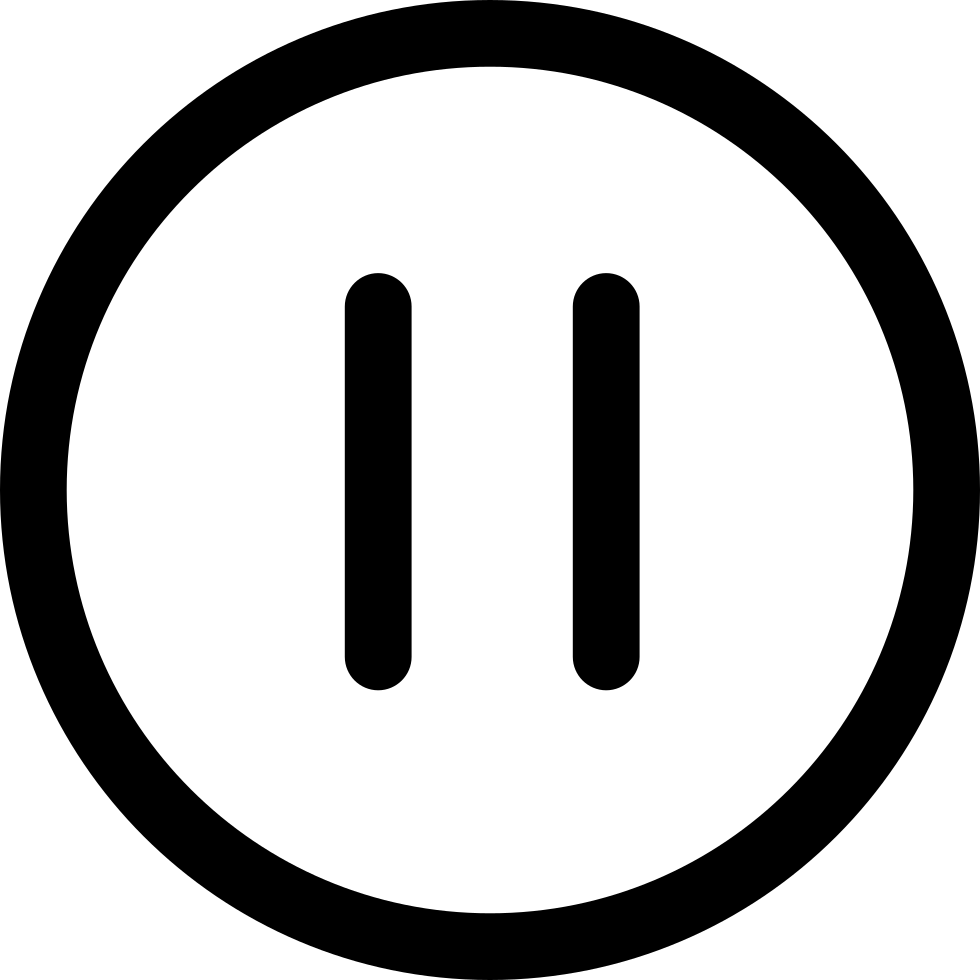
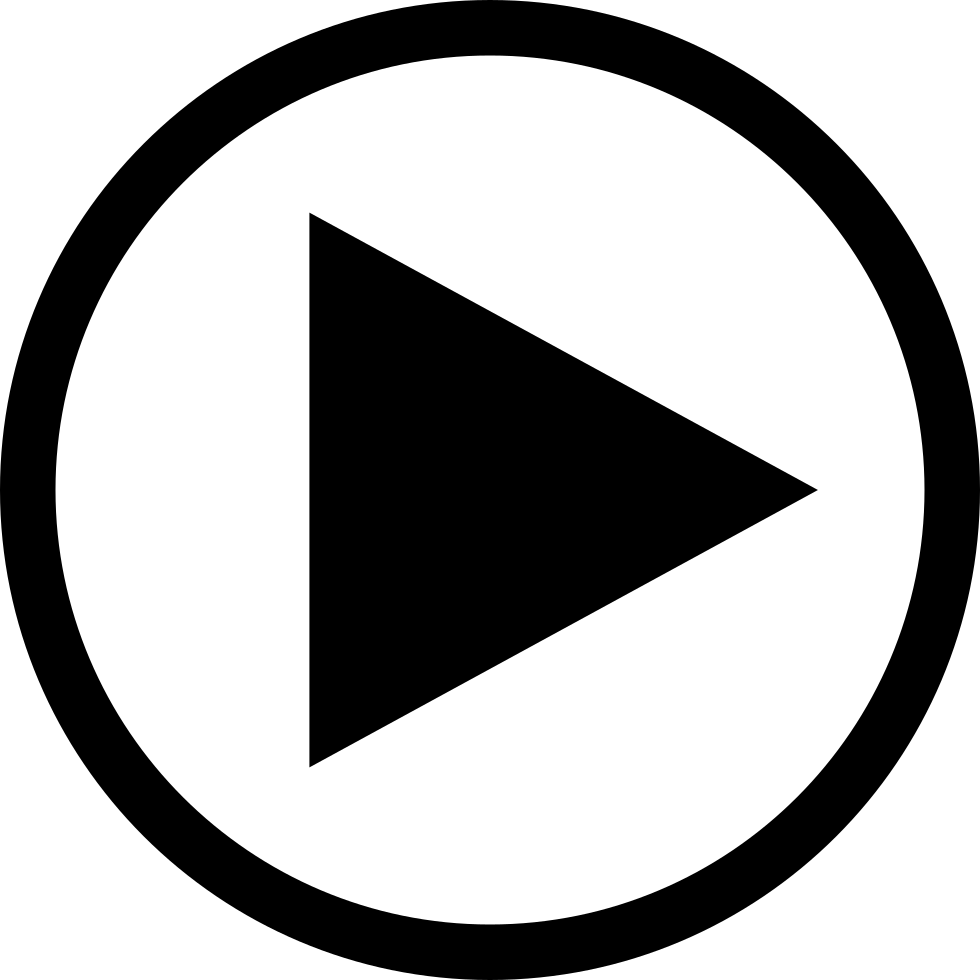
Add files via upload

diff --git a/src/mediacontroller.cpp b/src/mediacontroller.cpp
@@ -1,4 +1,5 @@
 #include "mediacontroller.h"
+#include "videoprogressbar.h"
 #include "videoplayer.h"
 #include "clickablelabel.h"
 
@@ -64,9 +65,8 @@ PlayerWindow::PlayerWindow(QWidget* parent)
         }
     });
 
-
     // ----- Video Widget -----
-    videoPlayer = new VideoPlayer("/home/jakei/Projects/Linux_Player/test.mp4", this);
+    videoPlayer = new VideoPlayer("/home/jakei/Projects/Linux_Player/Unselected.mp4", this);
     videoPlayer->setAttribute(Qt::WA_OpaquePaintEvent, false);
     videoPlayer->setAttribute(Qt::WA_TranslucentBackground, true);
     videoPlayer->setAutoFillBackground(false);
@@ -78,33 +78,48 @@ PlayerWindow::PlayerWindow(QWidget* parent)
     container->setLayout(layout);
     setCentralWidget(container);
 
-
     QTimer::singleShot(0, this, [this]() {
         QResizeEvent dummy(QSize(width(), height()), QSize(width(), height()));
         this->resizeEvent(&dummy);
     });
 
-    // ----- Play / Pause Icons -----
+    // ----- Load icons (local pixmaps) -----
     QString workspacePath = QCoreApplication::applicationDirPath() + "/../resources/";
+
     QPixmap playPix(workspacePath + "play.png");
     QPixmap stopPix(workspacePath + "pause.png");
+    QPixmap forwardPix(workspacePath + "forward.png");
+    QPixmap backwardPix(workspacePath + "backward.png");
 
-    playingIcon = new ClickableLabel(this); 
+    playingIcon = new ClickableLabel(this);
     stoppedIcon = new ClickableLabel(this);
+    forwardIcon = new ClickableLabel(this);
+    backwardIcon = new ClickableLabel(this);
 
     playingIcon->setPixmap(playPix.scaled(120, 120, Qt::KeepAspectRatio, Qt::SmoothTransformation));
     stoppedIcon->setPixmap(stopPix.scaled(120, 120, Qt::KeepAspectRatio, Qt::SmoothTransformation));
+    forwardIcon->setPixmap(forwardPix.scaled(120, 120, Qt::KeepAspectRatio, Qt::SmoothTransformation));
+    backwardIcon->setPixmap(backwardPix.scaled(120, 120, Qt::KeepAspectRatio, Qt::SmoothTransformation));
 
     playingIcon->setFixedSize(120, 120);
     stoppedIcon->setFixedSize(120, 120);
+    forwardIcon->setFixedSize(120, 120);
+    backwardIcon->setFixedSize(120, 120);
 
     playingIcon->setStyleSheet("background: transparent; border: none;");
     stoppedIcon->setStyleSheet("background: transparent; border: none;");
+    forwardIcon->setStyleSheet("background: transparent; border: none;");
+    backwardIcon->setStyleSheet("background: transparent; border: none;");
 
     playingIcon->show();
     stoppedIcon->hide();
+    forwardIcon->show();
+    backwardIcon->show();
+
     playingIcon->raise();
     stoppedIcon->raise();
+    forwardIcon->raise();
+    backwardIcon->raise();
 
     // ----- ICON CLICK BEHAVIOR -----
     connect(playingIcon, &ClickableLabel::clicked, this, [this]() {
@@ -115,6 +130,14 @@ PlayerWindow::PlayerWindow(QWidget* parent)
     connect(stoppedIcon, &ClickableLabel::clicked, this, [this]() {
         videoPlayer->play();
         showPlayingIcon();
+    });
+
+    connect(forwardIcon, &ClickableLabel::clicked, this, [this]() {
+        if(videoPlayer) videoPlayer->seekForward(5000); // 5 sec forward
+    });
+
+    connect(backwardIcon, &ClickableLabel::clicked, this, [this]() {
+        if(videoPlayer) videoPlayer->seekBackward(5000); // 5 sec backward
     });
 
     // ----- Mouse tracking & event filter -----
@@ -147,6 +170,10 @@ PlayerWindow::PlayerWindow(QWidget* parent)
     connect(videoPlayer, &VideoPlayer::playing, this, &PlayerWindow::showPlayingIcon);
     connect(videoPlayer, &VideoPlayer::stopped, this, &PlayerWindow::showStoppedIcon);
 
+    progressBar = new VideoProgressBar(videoPlayer->getLibVLCPlayer(), this);
+    layout->addWidget(progressBar);
+    progressBar->raise();
+
     qDebug() << "Successfully opened Player";
 }
 
@@ -155,16 +182,23 @@ void PlayerWindow::resizeEvent(QResizeEvent* event)
 {
     QMainWindow::resizeEvent(event);
 
-    if (playingIcon && stoppedIcon && videoPlayer) {
-        int normalOffsetY = 20;    // default distance from bottom
+    if (playingIcon && stoppedIcon && videoPlayer && forwardIcon && backwardIcon) {
+        int normalOffsetY = 0;    // default distance from bottom
+
+        if (isFullScreen()){
+            normalOffsetY = 15;
+        } else {
+            normalOffsetY = -20;
+        }
+        
         int hiddenOffsetY = 500;   // move down when mouse not near bottom
         int offsetY;
 
-        // Check if mouse is within 30 px of bottom
+        // Check if mouse is near bottom
         if (mouseY >= videoPlayer->height() - 150) {
-            offsetY = normalOffsetY; // stay near bottom
+            offsetY = normalOffsetY;
         } else {
-            offsetY = -hiddenOffsetY; // move down 100px off bottom
+            offsetY = -hiddenOffsetY;
         }
 
         int x = (videoPlayer->width() - playingIcon->width()) / 2;
@@ -172,13 +206,17 @@ void PlayerWindow::resizeEvent(QResizeEvent* event)
 
         playingIcon->move(x, y);
         stoppedIcon->move(x, y);
+
+        int spacing = 0; // distance from play/pause button
+
+        backwardIcon->move(x - backwardIcon->width() - spacing, y + (playingIcon->height() - backwardIcon->height()) / 2);
+        forwardIcon->move(x + playingIcon->width() + spacing, y + (playingIcon->height() - forwardIcon->height()) / 2);
     }
 }
 
 // ----- Show/hide play/pause icons -----
 void PlayerWindow::showPlayingIcon()
 {
-
     if (playingIcon && stoppedIcon) {
         playingIcon->setVisible(true);
         stoppedIcon->setVisible(false);
@@ -190,7 +228,6 @@ void PlayerWindow::showPlayingIcon()
 
 void PlayerWindow::showStoppedIcon()
 {
-
     if (playingIcon && stoppedIcon) {
         playingIcon->setVisible(false);
         stoppedIcon->setVisible(true);
@@ -205,10 +242,8 @@ void PlayerWindow::mouseMoveEvent(QMouseEvent* event)
 {
     QMenuBar* menuBar = this->menuBar();
 
-    // Track last mouse Y relative to videoPlayer
     mouseY = event->pos().y();
 
-    // Auto-show top menu if near top
     if (isFullScreen()) {
         if (event->y() <= 30) {
             if (!menuBar->isVisible())
@@ -225,9 +260,12 @@ void PlayerWindow::mouseMoveEvent(QMouseEvent* event)
     QResizeEvent dummy(size(), size());
     resizeEvent(&dummy);
 
+    if (progressBar) {
+        progressBar->setVisibleBasedOnMouseY(mouseY, videoPlayer->height());
+    }
+
     QMainWindow::mouseMoveEvent(event);
 }
-
 
 // ----- Forward mouse from videoPlayer -----
 bool PlayerWindow::eventFilter(QObject* obj, QEvent* event)

diff --git a/src/videoprogressbar.cpp b/src/videoprogressbar.cpp
@@ -1,0 +1,80 @@
+#include "videoprogressbar.h"
+#include <QVBoxLayout>
+#include <QDebug>
+
+VideoProgressBar::VideoProgressBar(libvlc_media_player_t* player, QWidget* parent)
+    : QWidget(parent), mediaPlayer(player)
+{
+    slider = new QSlider(Qt::Horizontal, this);
+    slider->setRange(0, 1000);   // 0–1000 for simplicity
+    slider->setSingleStep(1);
+    slider->setPageStep(10);
+
+    QVBoxLayout* layout = new QVBoxLayout(this);
+    layout->setContentsMargins(5,5,5,5);
+    layout->addWidget(slider);
+    setLayout(layout);
+
+    // Timer to update slider while playing
+    updateTimer = new QTimer(this);
+    updateTimer->setInterval(200); // 5 times/sec
+    connect(updateTimer, &QTimer::timeout, this, &VideoProgressBar::updateSlider);
+    updateTimer->start();
+
+    // Handle dragging
+    connect(slider, &QSlider::sliderPressed, this, &VideoProgressBar::sliderPressed);
+    connect(slider, &QSlider::sliderReleased, this, &VideoProgressBar::sliderReleased);
+}
+
+void VideoProgressBar::updateSlider()
+{
+    if (isDragging || !mediaPlayer) return;
+
+    libvlc_time_t current = libvlc_media_player_get_time(mediaPlayer);
+    libvlc_time_t duration = libvlc_media_player_get_length(mediaPlayer);
+    if (duration > 0)
+    {
+        int value = static_cast<int>((current * 1000) / duration);
+        slider->setValue(value);
+    }
+}
+
+void VideoProgressBar::sliderPressed()
+{
+    isDragging = true;
+}
+
+void VideoProgressBar::sliderReleased()
+{
+    isDragging = false;
+    if (!mediaPlayer) return;
+
+    int value = slider->value();
+    libvlc_time_t duration = libvlc_media_player_get_length(mediaPlayer);
+    libvlc_time_t newTime = (value * duration) / 1000;
+    libvlc_media_player_set_time(mediaPlayer, newTime);
+
+    emit seekRequested(newTime);
+}
+
+void VideoProgressBar::setVisibleBasedOnMouseY(int mouseY, int videoHeight)
+{
+    int normalOffsetY = -20;   // distance from bottom
+    int hiddenOffsetY = 500;  // move down far off screen
+    int offsetY;
+
+    if (mouseY >= videoHeight - 150) {
+        offsetY = normalOffsetY;
+        this->show();
+    } else {
+        offsetY = -hiddenOffsetY;
+        this->hide();
+    }
+
+    // Position it at the bottom center
+    if (parentWidget()) {
+        int x = (parentWidget()->width() - width()) / 2;
+        int y = videoHeight - height() - offsetY;
+        move(x, y);
+    }
+}

diff --git a/src/videoplayer.cpp b/src/videoplayer.cpp
@@ -2,6 +2,7 @@
 #include <QDebug>
 #include <QResizeEvent>
 #include <QShowEvent>
+#include <vlc/vlc.h>
 
 VideoPlayer::VideoPlayer(const QString& filePath, QWidget* parent)
     : QWidget(parent)
@@ -80,6 +81,29 @@ void VideoPlayer::stop()
         emit stopped();  // <-- emit signal
     }
 }
+
+void VideoPlayer::seekForward(int ms)
+{
+    if (!mediaPlayer) return;
+
+    // get current time in ms
+    libvlc_time_t curr = libvlc_media_player_get_time(mediaPlayer);
+
+    // set new time
+    libvlc_media_player_set_time(mediaPlayer, curr + ms);
+}
+
+void VideoPlayer::seekBackward(int ms)
+{
+    if (!mediaPlayer) return;
+
+    libvlc_time_t curr = libvlc_media_player_get_time(mediaPlayer);
+    libvlc_time_t newTime = curr - ms;
+    if (newTime < 0) newTime = 0;
+    libvlc_media_player_set_time(mediaPlayer, newTime);
+}
+
+
 
 // Load a new file dynamically
 void VideoPlayer::loadFile(const QString& filePath)

diff --git a/src/videoprogressbar.h b/src/videoprogressbar.h
@@ -1,0 +1,28 @@
+#pragma once
+
+#include <QWidget>
+#include <QSlider>
+#include <QTimer>
+#include <vlc/vlc.h>
+
+class VideoProgressBar : public QWidget
+{
+    Q_OBJECT
+public:
+    explicit VideoProgressBar(libvlc_media_player_t* player, QWidget* parent = nullptr);
+    void setVisibleBasedOnMouseY(int mouseY, int videoHeight);
+
+private:
+    QSlider* slider;
+    QTimer* updateTimer;
+    libvlc_media_player_t* mediaPlayer;
+    bool isDragging = false;
+
+private slots:
+    void updateSlider();
+    void sliderReleased();
+    void sliderPressed();
+
+signals:
+    void seekRequested(qint64 newTime);
+};

diff --git a/src/mediacontroller.h b/src/mediacontroller.h
@@ -4,6 +4,7 @@
 #include <QLabel>
 #include <QTimer>
 #include "clickablelabel.h"
+#include "videoprogressbar.h"
 
 class VideoPlayer;
 
@@ -31,8 +32,11 @@ private:
     QTimer* menuHideTimer = nullptr;
     ClickableLabel* playingIcon;
     ClickableLabel* stoppedIcon;
+    ClickableLabel* forwardIcon;
+    ClickableLabel* backwardIcon;
     bool isVideoPlaying = false;
     int mouseY = 0;
+    VideoProgressBar* progressBar = nullptr;
 
 
 };

diff --git a/src/videoplayer.h b/src/videoplayer.h
@@ -12,10 +12,14 @@ public:
     explicit VideoPlayer(const QString &filePath, QWidget *parent = nullptr);
     ~VideoPlayer();
 
+    libvlc_media_player_t* getLibVLCPlayer() const { return mediaPlayer; }
+
     void play();
     void pause();
     void stop();
     void loadFile(const QString& filePath);
+    void seekForward(int ms);
+    void seekBackward(int ms);
 
     void setLoop(bool loop) { loopEnabled = loop; }
 
